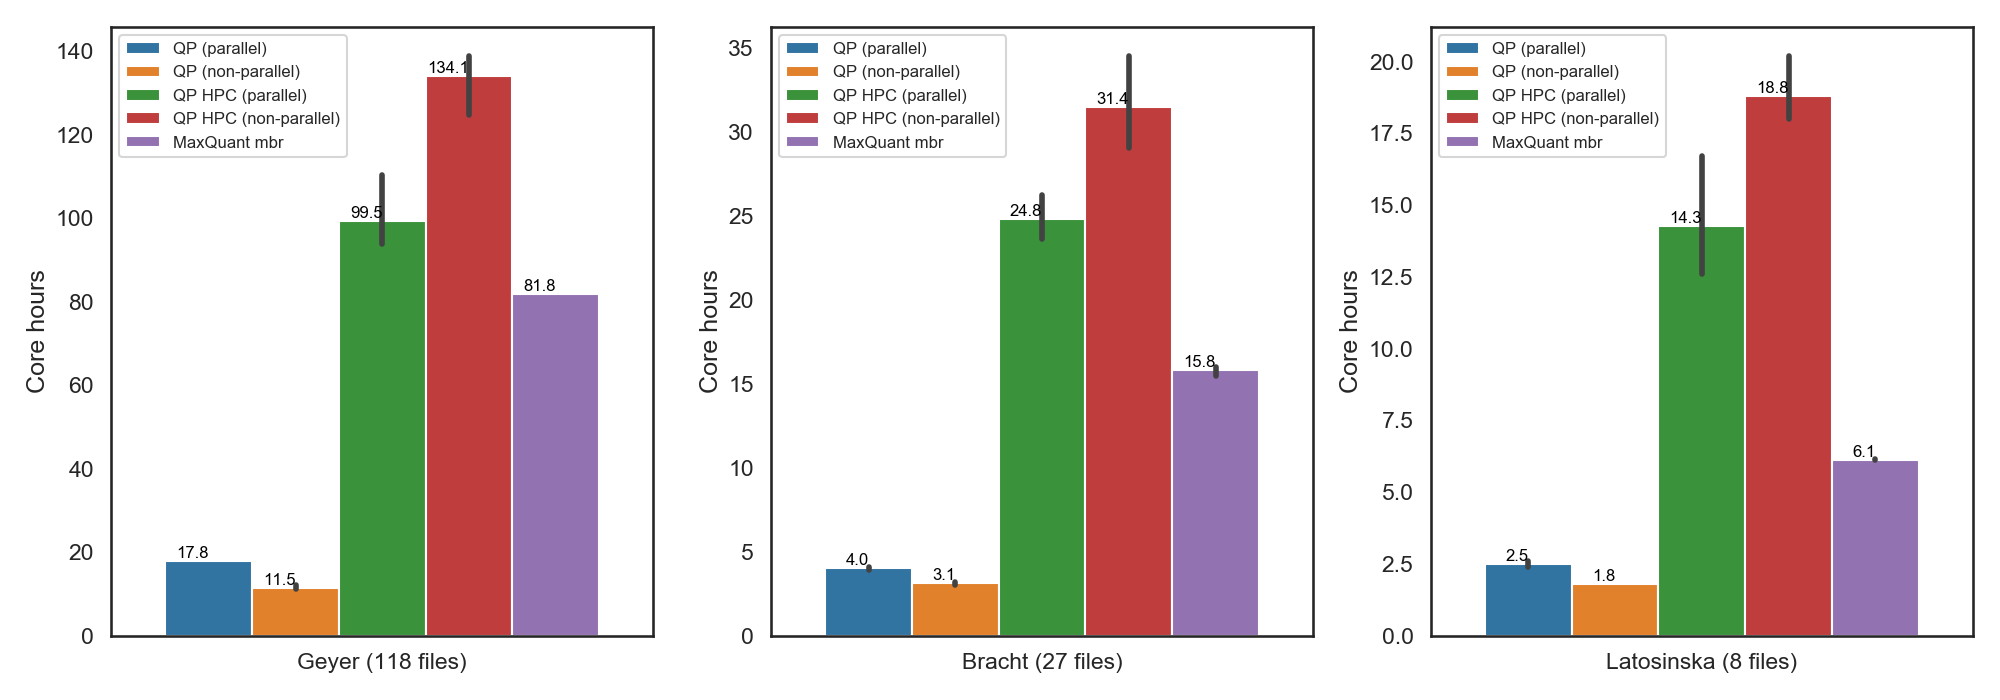
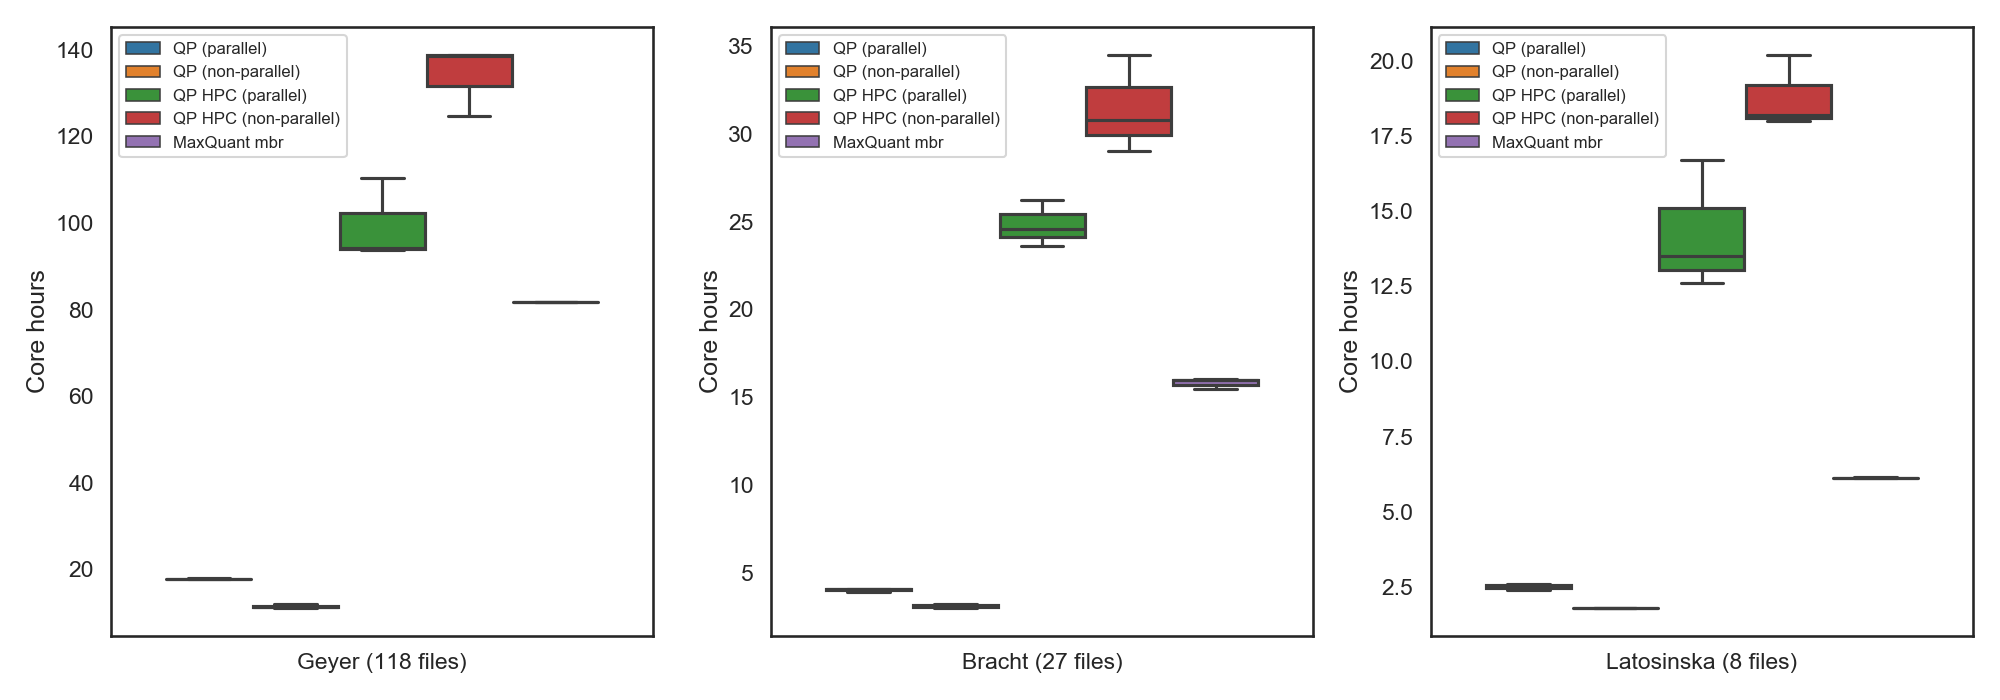
Updated barcharts to boxplots

diff --git a/doc/paper/data/generate_plots.py b/doc/paper/data/generate_plots.py
@@ -44,7 +44,7 @@ with open('data.csv', 'r') as f:
                 data_cores_list.append([run, data_set, value])
 print(data_list)
 
-for d, y, f in zip([data_list, data_cores_list], ['Minutes', 'Core hours'], ['times.png', 'cores.png']):
+for d, y, f in zip([data_list, data_cores_list], ['Wall time (minutes)', 'Core hours'], ['times.png', 'cores.png']):
     y = y
     file = f
     columns = ['run', 'data_set', 'time']
@@ -53,10 +53,11 @@ for d, y, f in zip([data_list, data_cores_list], ['Minutes', 'Core hours'], ['ti
     plt.figure(figsize=(20,7))
     for idx, d in enumerate(data_sets):
         plt.subplot(1,len(data_sets), idx+1)
-        ax = sns.barplot(x='data_set',
+        ax = sns.boxplot(x='data_set',
                          y='time',
                          hue='run',
                          data=pd_data[pd_data.data_set == d])
+        ax.set_xlabel('')
 
         # Remove uneccessary titles
         handles, labels = ax.get_legend_handles_labels()
@@ -67,13 +68,13 @@ for d, y, f in zip([data_list, data_cores_list], ['Minutes', 'Core hours'], ['ti
         plt.ylabel(y)
 
         # Set values on each bar
-        if y == 'Minutes':
+        if y == 'Wall time (minutes)':
             display = '%d'
         else:
             display = '%.1f'
-        for p in ax.patches:
-            ax.text(p.get_x() + p.get_width()/2., p.get_height(), display % round(p.get_height(),2),
-                    fontsize=12, color='black', ha='right', va='bottom')
+        #for p in ax.patches:
+        #    ax.text(p.get_x() + p.get_width()/2., p.get_height(), display % round(p.get_height(),2),
+        #            fontsize=12, color='black', ha='right', va='bottom')
 
     plt.tight_layout()
     plt.savefig(file)
